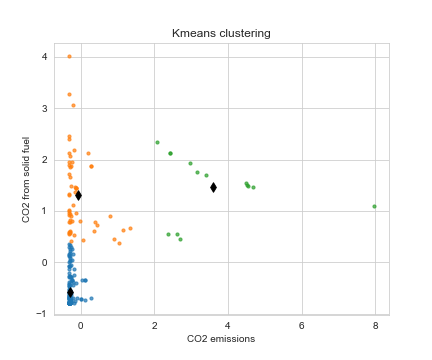
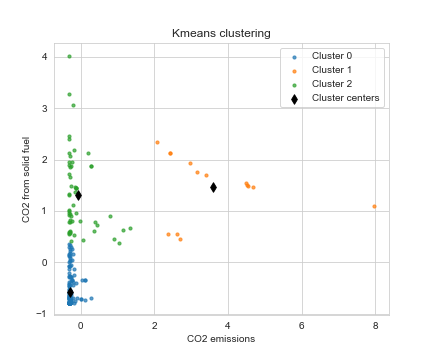
changed the python file and added new plots images
made changes in the plot functions and created new plots

diff --git a/Clustering and fitting/23037058.py b/Clustering and fitting/23037058.py
@@ -169,7 +169,7 @@ def line_plot(x,y,x_label,y_label, image_name):
     plt.savefig(image_name)
     plt.show()
     
-def plot_fitted(labels, xy, xkmeans, ykmeans, centre_labels):
+def plot_fitted(labels, xy, xkmeans, ykmeans, centre_labels, image_name):
     """
     Plots clustered data as a scatter plot with determined centres shown
     parameters: 
@@ -193,8 +193,8 @@ def plot_fitted(labels, xy, xkmeans, ykmeans, centre_labels):
     ax.set_xlabel("CO2 from liquid fuel")
     ax.set_ylabel("CO2 from solid fuel")
     ax.set_xscale('log')
+    plt.savefig(image_name+"predicted")
     plt.show()
-    return
 
 def k_means(df,n):
    """
@@ -264,8 +264,8 @@ def plot_forecast(year, data, param, covar, predictions=None):
     plt.xlabel("Year")
     plt.ylabel("CO2 emissions")
     plt.title("Logistic forecast for China")
-    plt.savefig("Logistic forecast for China")
     plt.legend()
+    plt.savefig("Logistic forecast for China")
     plt.show()
 def clustering(df_cluster, x_label, y_label, image_name):
     """
@@ -295,7 +295,7 @@ def clustering(df_cluster, x_label, y_label, image_name):
     ycen = cen[:, 1]
     cen_labels = kmeans.predict(kmeans.cluster_centers_)
 
-    plot_fitted(labels, inv_scaler, xcen, ycen, cen_labels)
+    plot_fitted(labels, inv_scaler, xcen, ycen, cen_labels, image_name)
 
     cen = kmeans.cluster_centers_
     xcen = cen[:, 0]
@@ -313,8 +313,8 @@ def clustering(df_cluster, x_label, y_label, image_name):
     plt.xlabel(x_label)
     plt.ylabel(y_label)
     plt.title("Kmeans clustering")
+    plt.legend()#
     plt.savefig(image_name)
-    plt.legend()
     plt.show()
 
 # Load and preprocess the data for clustering
